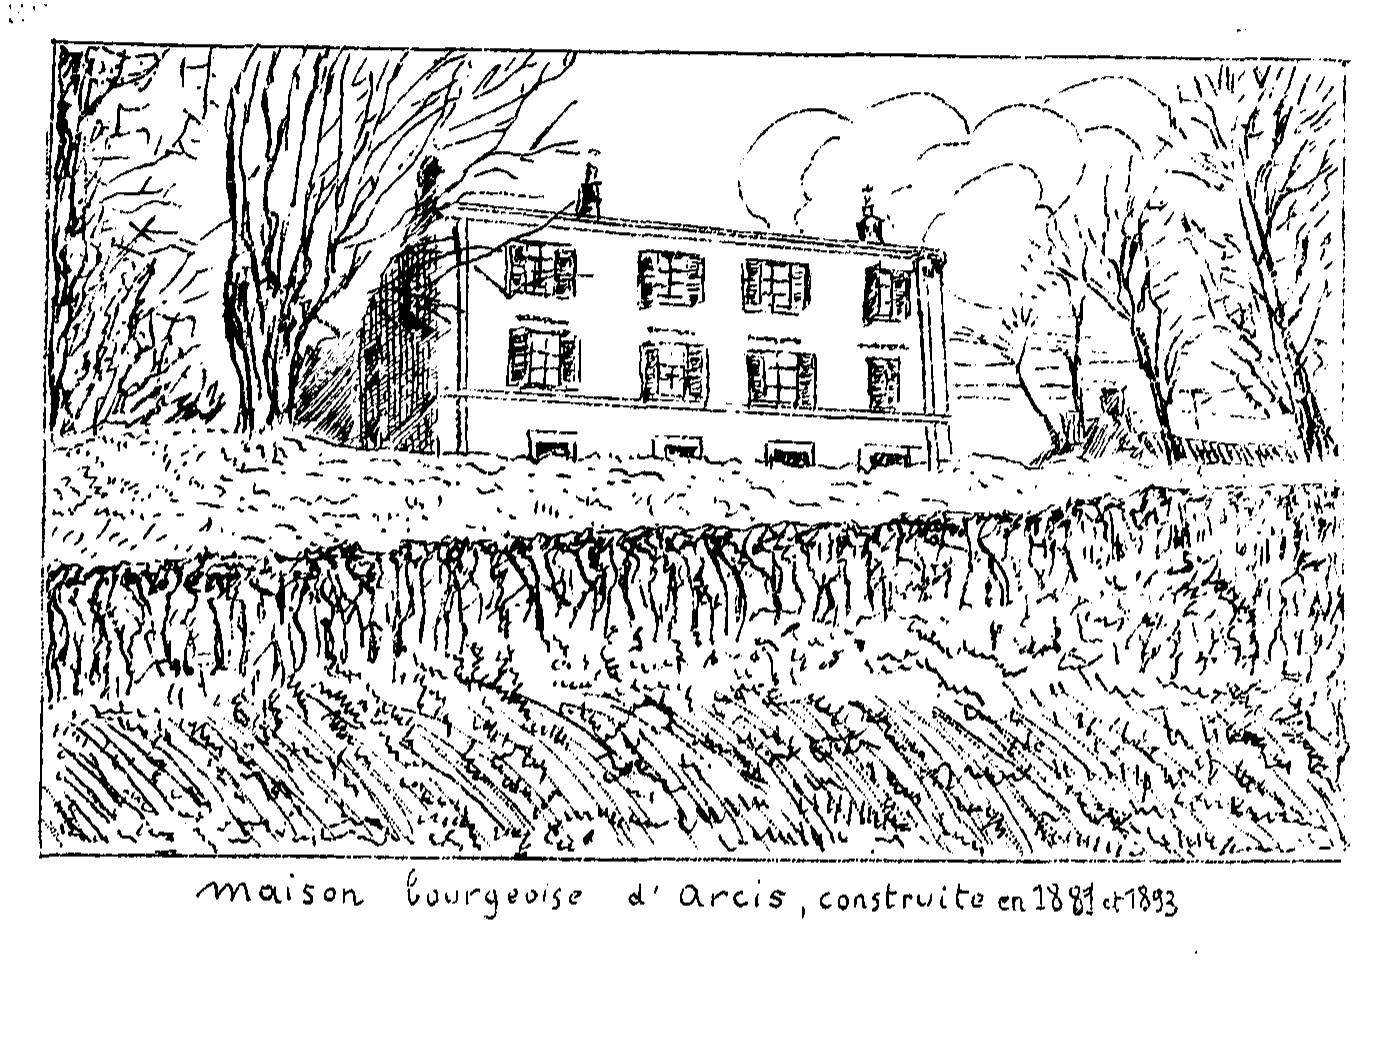
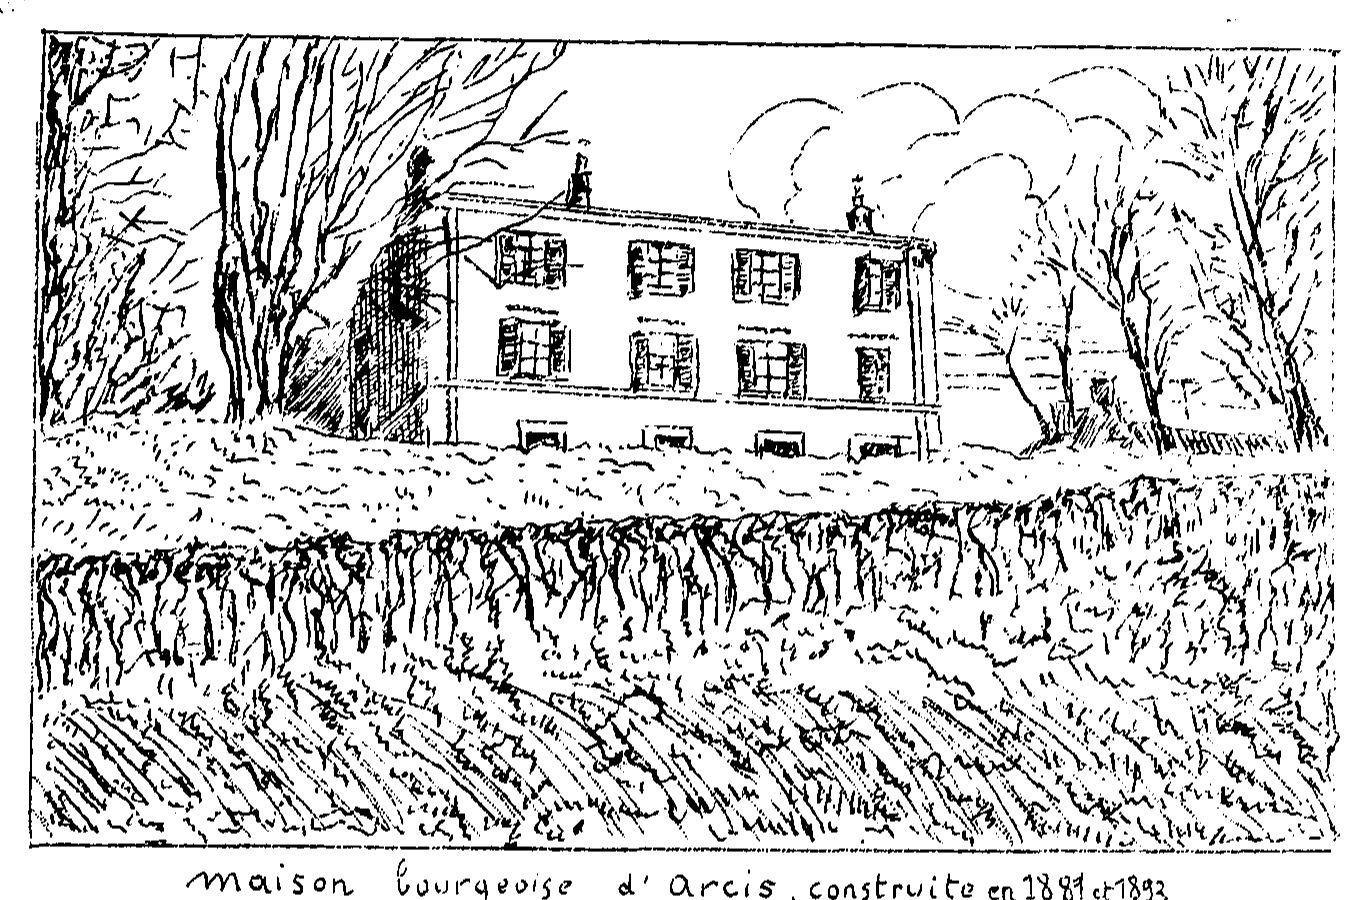
fix: intégrer les illustrations du chapitre Arcis

diff --git a/Chapitres/09-arcis.tex b/Chapitres/09-arcis.tex
@@ -5,7 +5,11 @@
 \chapter{Arcis}
 
 % --- Page imprimée 47 — vue 50
-\begin{center}\textit{[Illustration : maison bourgeoise d'Arcis, construite en 1881 et 1893]}\end{center}
+\begin{figure}[htbp]
+    \centering
+    \includegraphics[width=0.72\textwidth]{Illustrations/illus-arcis-maison.png}
+    \caption*{Maison bourgeoise d'Arcis, construite en 1881 et 1893}
+\end{figure}
 
 Le nom latin d'Arcis qui signifie Citadelle réveille en nous l'idée d'une maison forte, d'un de ces manoirs rendus nécessaires par les luttes incessantes du moyen-âge et que les Seigneurs élevaient sur nos montagnes pour faire respecter leurs droits par leurs ennemis, souvent même par leurs suzerains. Arcis a pu faire partie d'un système de défense ; organisé à une époque fort reculée, pour protéger la vallée de la Grosne et par là même la partie méridionale du Mâconnais. Indépendamment de Nagu qui commandait la vallée proprement dite, Alloignet surveillait les communications qui avaient lieu, depuis la fondation de Beaujeu par la vallée de Lacarelle, comme Arcis était la clef de la partie orientale du Beaujolais.
 
@@ -23,19 +27,25 @@ Henri de Pizeys appartenait à une noble et puissante famille qui portait le nom
 % --- Page imprimée 49 — vue 52
 Armes des
 
-\begin{center}\textit{[Illustration : sans légende]}\end{center}
+\begin{center}
+    \includegraphics[width=0.16\textwidth]{Illustrations/illus-arcis-armoiries-nanton.png}
+\end{center}
 De Nanton
 Seigneur de Pizey
 De sinople
 à la croix d'or.
 
-\begin{center}\textit{[Illustration : sans légende]}\end{center}
+\begin{center}
+    \includegraphics[width=0.16\textwidth]{Illustrations/illus-arcis-armoiries-pizeys.png}
+\end{center}
 De Piseys
 D'argent
 au chef bandé d'or et d'azur
 de 6 pièces
 
-\begin{center}\textit{[Illustration : sans légende]}\end{center}
+\begin{center}
+    \includegraphics[width=0.16\textwidth]{Illustrations/illus-arcis-armoiries-madelaine.png}
+\end{center}
 De La Madelaine-Ragny
 Seigneur de Corcelles
 Écartelé au 1 d'hermine
@@ -52,13 +62,17 @@ de 6 pièces ;
 Devise :
 Posita Feritate nitescit
 
-\begin{center}\textit{[Illustration : sans légende]}\end{center}
+\begin{center}
+    \includegraphics[width=0.16\textwidth]{Illustrations/illus-arcis-armoiries-tircuy.png}
+\end{center}
 Tircuy de Corcelles
 Seigneur de Corcelles, d'Arcis
 de Flourye
 D'azur, à la fasce d'or
 
-\begin{center}\textit{[Illustration : sans légende]}\end{center}
+\begin{center}
+    \includegraphics[width=0.16\textwidth]{Illustrations/illus-arcis-armoiries-bottu.png}
+\end{center}
 Bottu de la Barmondière
 Seigneur de Montgré
 D'azur, au chevron d'or
